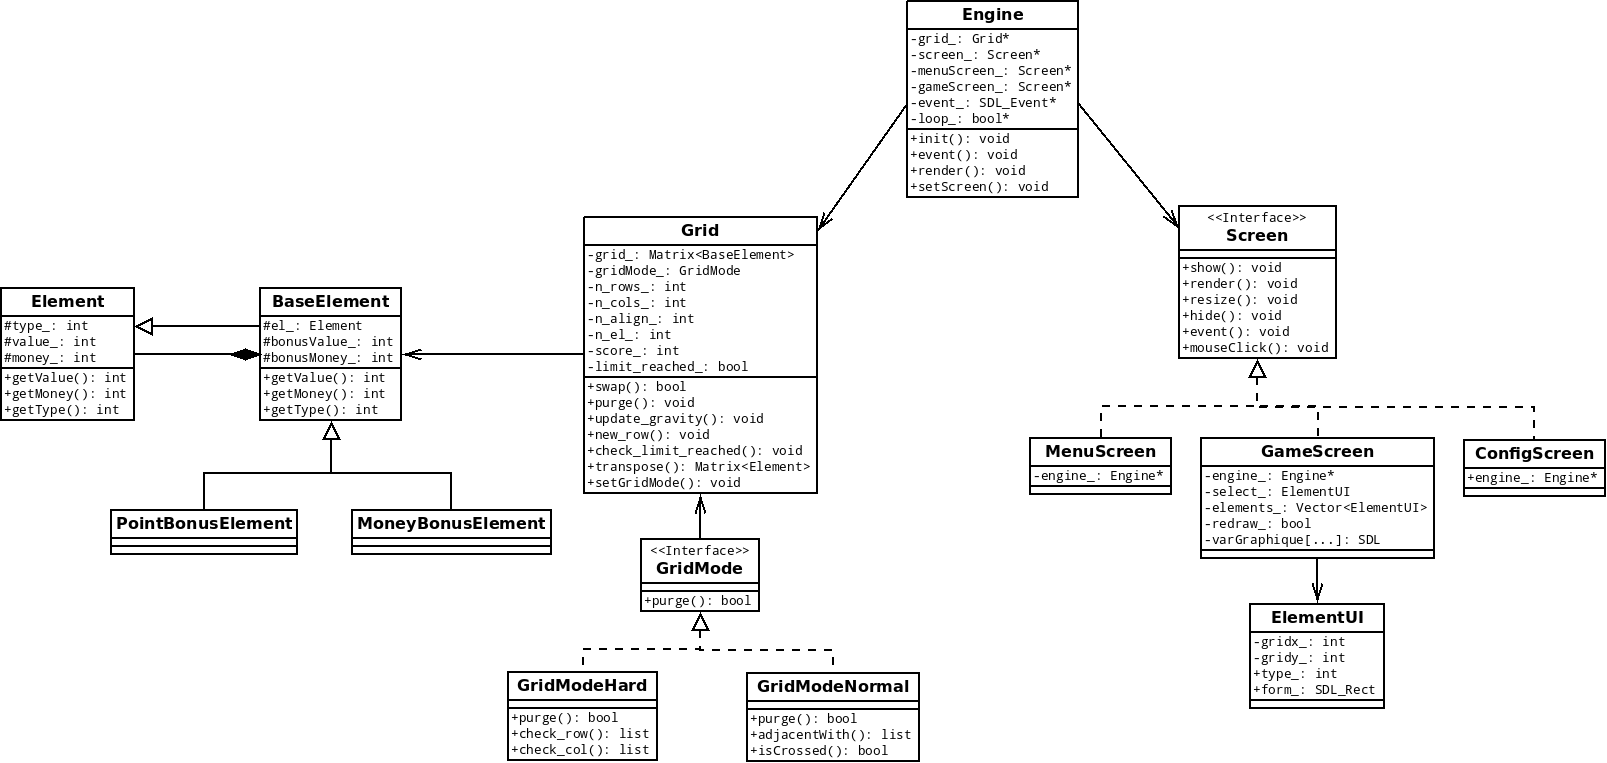
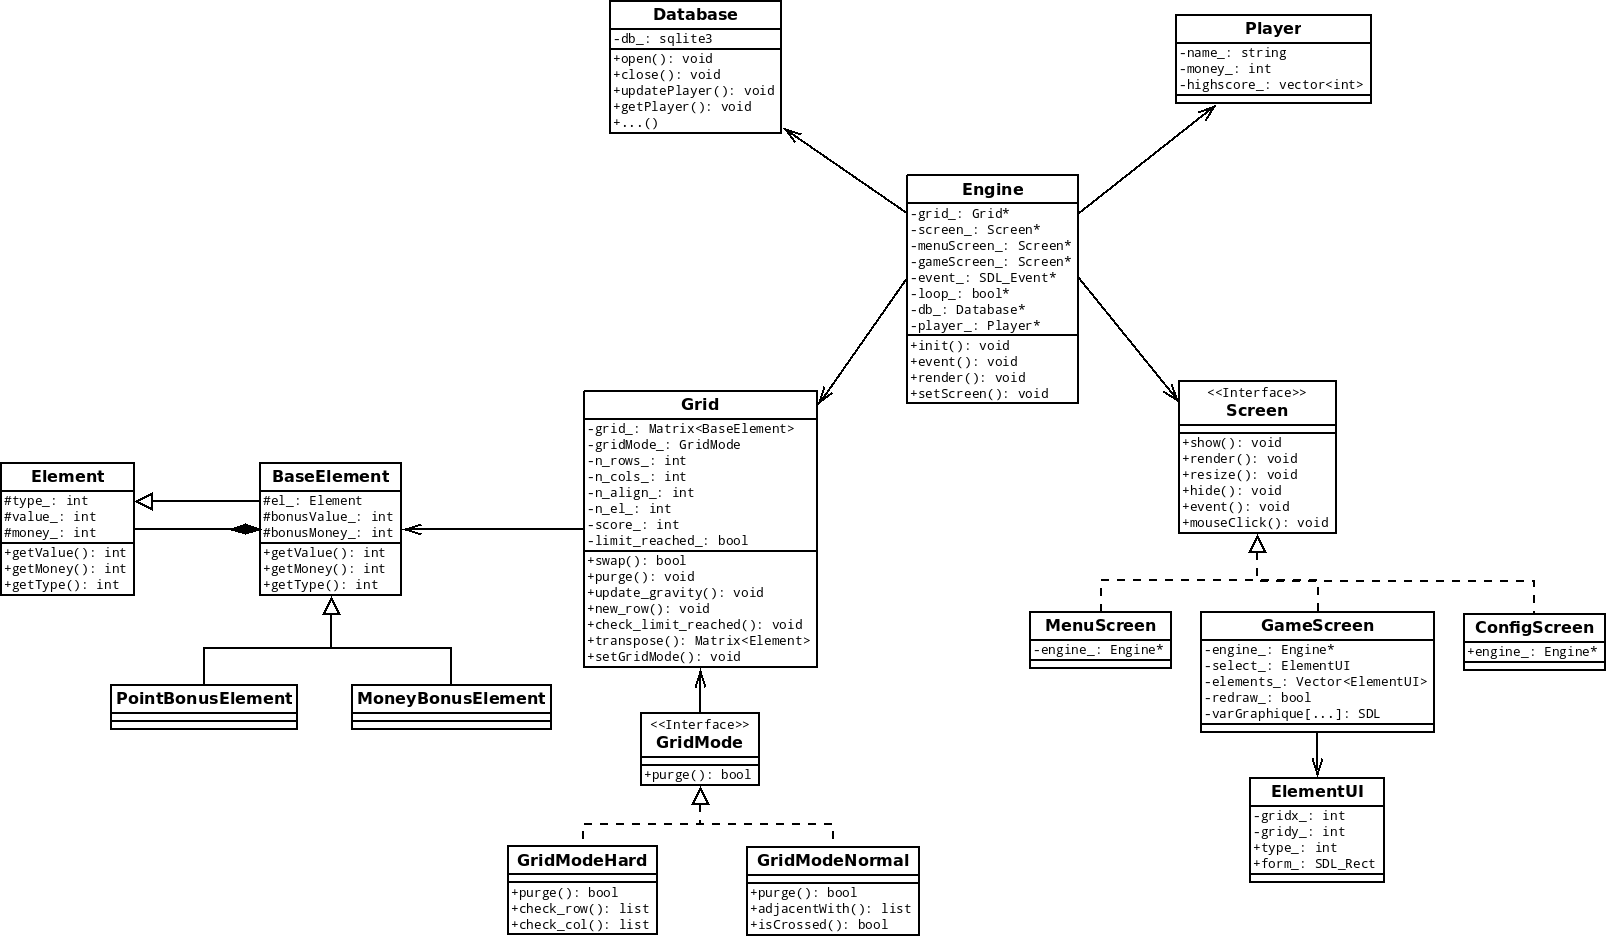
Ajout de la structure du joueur (Player) et de la base de données SQLite3 (Database) pour gérer le stockage des données des joueurs

diff --git a/include/Engine.h b/include/Engine.h
@@ -6,6 +6,8 @@
 #include "Define.h"
 #include "MenuScreen.h"
 #include "GameScreen.h"
+#include "Player.h"
+#include "Database.h"
 
 class Engine
 {
@@ -17,10 +19,21 @@ class Engine
         Screen *screen_; // l'écran courant
         Screen *menuScreen_; // l'écran menu
         Screen *gameScreen_; // l'écran de jeu
+        /*************
+        * Le joueur *
+        ************/
+        Player *player_;
+        /**********************
+        * La base de données *
+        *********************/
+        Database *db_;
+        /*****************
+        * Variables SDL *
+        ****************/
         SDL_Event *event_; // gestion des événements
-        bool *loop_;
+        bool *loop_; // booléen de la boucle principale
+        SDL_Surface *sdlScreen_; // surface de l'écran principal
 
-        SDL_Surface *sdlScreen_;
     public:
         Engine(SDL_Surface *sdlScreen, SDL_Event *event, bool *loop);
         virtual ~Engine();

diff --git a/include/Player.h b/include/Player.h
@@ -1,0 +1,34 @@
+#ifndef PLAYER_H
+#define PLAYER_H
+
+#include <string>
+#include <vector>
+
+using namespace std;
+
+class Player
+{
+    public:
+        Player();
+
+        // constructeur pour "charger" un joueur existant (utilisé par Engine)
+        Player(string name, int money, vector<int> highscore);
+        virtual ~Player();
+
+        // GETTERS
+        string getName();
+        int getMoney();
+        vector<int> getHighscore();
+
+        // SETTERS
+        void setMoney(int money);
+        void setHighscore(vector<int> highscore);
+        void setName(string name);
+
+    private:
+        string name_; // son nom
+        int money_; // argent récolté dans toutes ses parties
+        vector<int> highscore_; // liste des meilleurs scores
+};
+
+#endif // PLAYER_H

diff --git a/src/Database.cpp b/src/Database.cpp
@@ -1,0 +1,32 @@
+#include "../include/Database.h"
+
+Database::Database()
+{
+    // On se connecte à la base de données
+    if(sqlite3_open("data.db", &db_))
+    {
+        cout << "Database error" << endl;
+    }
+
+    string sql = "CREATE TABLE IF NOT EXISTS Player("
+          "ID INT PRIMARY KEY     NOT NULL,"
+          "NAME           TEXT    NOT NULL,"
+          "MONEY          INT     NOT NULL);";
+    // TODO HIGHSCORE
+
+    if(sqlite3_exec(db_, sql.c_str(), NULL, 0, NULL) != SQLITE_OK)
+        cout << "Error in the Player table creation" << endl;
+    else
+        cout << "Player table created !" << endl;
+}
+
+Database::~Database()
+{
+    // On termine la connexion
+    sqlite3_close(db_);
+}
+
+sqlite3* Database::getDb()
+{
+    return db_;
+}

diff --git a/src/Player.cpp b/src/Player.cpp
@@ -1,0 +1,54 @@
+#include "../include/Player.h"
+
+Player::Player()
+{
+    name_ = "Lambda";
+    money_ = 0;
+}
+
+Player::Player(string name, int money, vector<int> highscore)
+{
+    name_ = name;
+    money_ = money;
+    highscore_ = highscore;
+}
+
+Player::~Player()
+{
+    //dtor
+}
+
+/**********
+* GETTERS *
+**********/
+string Player::getName()
+{
+    return name_;
+}
+
+int Player::getMoney()
+{
+    return money_;
+}
+
+vector<int> Player::getHighscore()
+{
+    return highscore_;
+}
+
+/**********
+* SETTERS *
+**********/
+void Player::setMoney(int money)
+{
+    money_ = money;
+}
+
+void Player::setHighscore(vector<int> highscore)
+{
+    highscore_ = highscore;
+}
+void Player::setName(string name)
+{
+    name_ = name;
+}

diff --git a/src/Engine.cpp b/src/Engine.cpp
@@ -6,6 +6,11 @@ Engine::Engine(SDL_Surface *sdlScreen, SDL_Event *event, bool *loop)
     menuScreen_ = screen_;
     gameScreen_ = new GameScreen(this);
 
+    db_ = new Database();
+    // TODO: on charge le premier joueur dans la base de données
+    //       on crée le joueur à partir des données :  player_ = new Player(truc truc truc);
+    player_ = new Player();
+
     sdlScreen_ = sdlScreen;
     event_ = event;
     loop_ = loop;
@@ -19,6 +24,10 @@ Engine::~Engine()
         delete menuScreen_;
     if(gameScreen_ != NULL)
         delete gameScreen_;
+    if(player_ != NULL)
+        delete player_;
+    if(db_ != NULL)
+        delete db_;
 }
 
 void Engine::init()

diff --git a/include/Database.h b/include/Database.h
@@ -1,0 +1,20 @@
+#ifndef DATABASE_H
+#define DATABASE_H
+
+#include <sqlite3.h>
+#include <iostream>
+
+using namespace std;
+
+class Database
+{
+    public:
+        Database();
+        virtual ~Database();
+
+        sqlite3* getDb();
+    private:
+        sqlite3 *db_;
+};
+
+#endif // DATABASE_H
